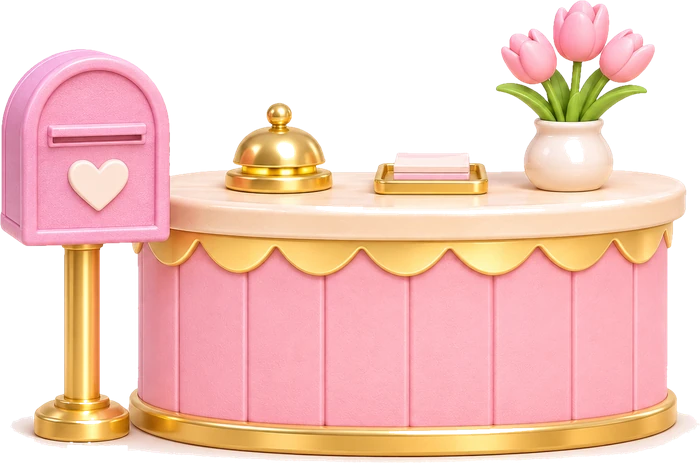
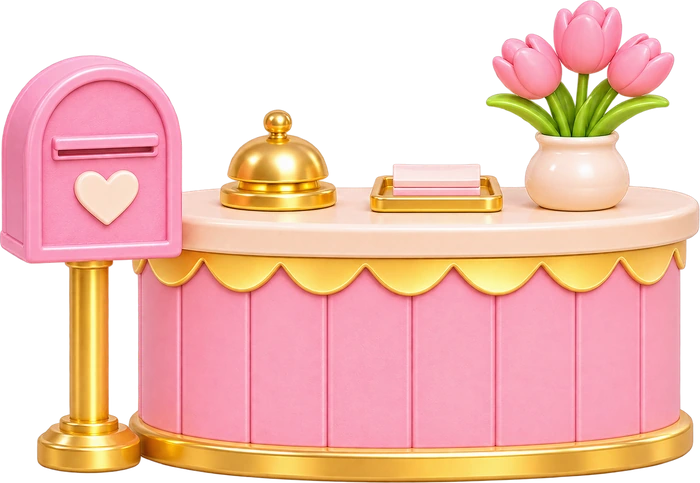
접수대 카운터를 투명 배경 PNG로 교체하고 알파 얼룩 정리
Claude-Session: https://claude.ai/code/session_011wWXPaiuu8PZPFdYFKdKKY

diff --git a/src/assets.gen.ts b/src/assets.gen.ts
@@ -192,7 +192,7 @@ export const ASSET_META = {
  },
  "counter": {
   "w": 700,
-  "h": 463
+  "h": 483
  },
  "props": {
   "desk": {

diff --git a/tools/process_assets.py b/tools/process_assets.py
@@ -155,26 +155,26 @@ def main(src):
             save(sp, f'{OUT}/avatars/{av}-{p}.webp', 88)
             meta['avatars'][av][p] = {'w': sp.width, 'h': sp.height}
 
-    # 접수대 카운터(우체통 포함): 나(관리자) 앞에 놓는 앞면 조각
-    im = load(src, 'counter')
-    fgc = white_fg(im, 236)
-    a = np.asarray(im).astype(np.int16)
-    lab, n = ndi.label((a.min(axis=2) >= 232) & (a.max(axis=2) - a.min(axis=2) <= 14))  # 기둥·바닥 사이에 갇힌 순백 영역도 배경이에요
-    for i in range(1, n + 1):
-        if (lab == i).sum() > 400:
-            fgc &= ~(lab == i)
-    # 우체통 기둥과 카운터 사이 틈(옅은 그림자)과 카운터 아래 그림자도 지워요
-    gap = np.zeros(fgc.shape, bool)
-    h_, w_ = fgc.shape
-    sat = a.max(axis=2) - a.min(axis=2)
-    lowsat = (a.min(axis=2) >= 205) & (sat <= 26)
-    gx0, gx1 = int(w_ * 0.13), int(w_ * 0.205)
-    gap[int(h_ * 0.52):int(h_ * 0.97), gx0:gx1] = True
-    gap[int(h_ * 0.93):, :] = True
-    fgc &= ~(gap & lowsat)
-    ct = trim(to_rgba(im, fgc, fill=False))
+    # 접수대 카운터(우체통 포함): 투명 배경 PNG(reception-counter-alpha)가 있으면 그 알파를 쓰고,
+    # 투명 영역의 옅은 얼룩 점은 지워요. 없으면 흰 배경을 지워서 만들어요.
+    alpha_path = next((os.path.join(src, f) for f in ('reception-counter-alpha.png',) if os.path.exists(os.path.join(src, f))), None)
+    if alpha_path:
+        im = Image.open(alpha_path).convert('RGBA')
+        al = np.asarray(im)[:, :, 3].astype(np.float32)
+        lab, n = ndi.label(al > 8)
+        sizes = ndi.sum(al > 8, lab, range(1, n + 1))
+        keep = lab == (int(np.argmax(sizes)) + 1)
+        keep = ndi.binary_dilation(keep, iterations=2)  # 가장자리 부드러운 부분은 살림
+        al = np.where(keep, al, 0)
+        al = np.where(al < 12, 0, al)
+        ct = Image.fromarray(np.dstack([np.asarray(im)[:, :, :3], al.astype(np.uint8)]), 'RGBA')
+        ct = trim(ct)
+    else:
+        im = load(src, 'counter')
+        fgc = white_fg(im, 236)
+        ct = trim(to_rgba(im, fgc))
     ct = ct.resize((700, round(ct.height * 700 / ct.width)), Image.LANCZOS)
-    save(ct, f'{OUT}/counter.webp', 90)
+    save(ct, f'{OUT}/counter.webp', 92)
     meta['counter'] = {'w': ct.width, 'h': ct.height}
 
     # 카운터 뒤에 선 나(허리 위) 6자세. 머리 크기가 서 있는 그림과 같아지게 배율을 맞춰요
